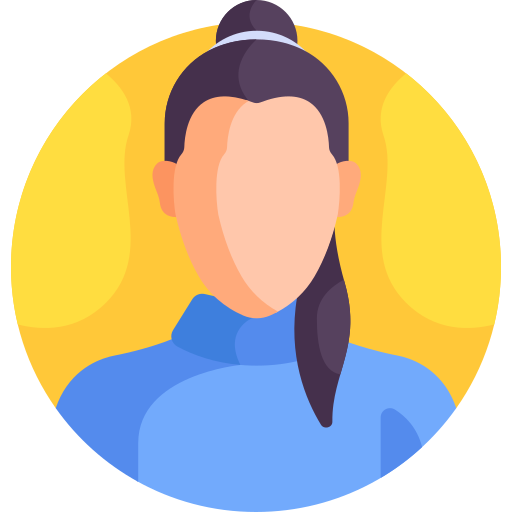
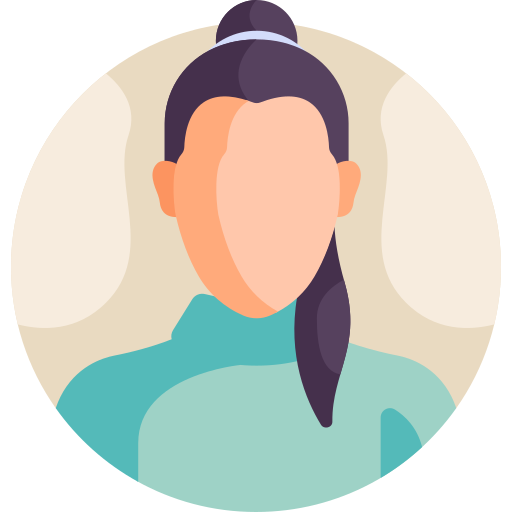
Style website

diff --git a/Web Development Bootcamp/CSS - My Site/css/styles.css b/Web Development Bootcamp/CSS - My Site/css/styles.css
@@ -10,7 +10,6 @@ h1 {
   font-size: 5.625rem;
   margin: 50px auto 0 auto;
   font-family: 'Sacramento', cursive;
-  line-height: 2;
 }
 h2{
   color: #66BFBF;
@@ -22,6 +21,15 @@ h3{
   color: #11999E;
   font-family: 'Montserrat', sans-serif;
 }
+hr{
+  border-style: none;
+  border-top-style: dotted;
+  border-width: 5px;
+  border-color: #EAF6F6;
+  margin: 100px auto;
+  width: 5%;
+
+}
 a{
   color: #11999E;
 }
@@ -30,20 +38,51 @@ a{
   background-color: #CDF0EA;
   position: relative;
   padding-top: 100px;
-
-
 }
 
 .middle-container {
+  background-color: #E9DAC1;
 }
-
-.icons{
-   width: 150px;
-}
-
 
 .bottom-container {
+  background-color: #CDF0EA;
 }
+
+.skill-row{
+  margin: 100px auto;
+  width: 50%;
+  text-align: left;
+  line-height: 2;
+}
+
+.profile{
+  margin: 100PX auto;
+  width: 50%;
+  line-height: 2;
+}
+
+.contact-me{
+  margin: 100px auto;
+  width: 50%;
+  line-height: 2;
+}
+
+.profile-pic{
+  margin-top: 50px;
+  width: 25%;
+}
+.multi-img{
+   width: 25%;
+   float: left;
+   margin-right: 30px;
+}
+
+.chip-img{
+  width:25%;
+  float: right;
+  margin-left: 30px;
+}
+
 
 .bottom-cloud {
   position: absolute;
@@ -55,4 +94,31 @@ a{
   position: absolute;
   top: 50px;
   right: 350px;
+}
+
+.btn {
+  background: #E9DAC1;
+  background-image: -webkit-linear-gradient(top, #54BAB9, #9ED2C6);
+  background-image: -moz-linear-gradient(top, #54BAB9,#9ED2C6);
+  background-image: -ms-linear-gradient(top, #54BAB9, #9ED2C6);
+  background-image: -o-linear-gradient(top, #54BAB9, #9ED2C6);
+  background-image: linear-gradient(to bottom, #54BAB9, #9ED2C6);
+  -webkit-border-radius: 8;
+  -moz-border-radius: 8;
+  border-radius: 8px;
+  font-family: Arial;
+  color: #1f65ab;
+  font-size: 20px;
+  padding: 10px 20px 10px 20px;
+  text-decoration: none;
+}
+
+.btn:hover {
+  background: #54BAB9;
+  background-image: -webkit-linear-gradient(top, #E9DAC1, #F7ECDE);
+  background-image: -moz-linear-gradient(top, #E9DAC1, #F7ECDE);
+  background-image: -ms-linear-gradient(top, #E9DAC1, #F7ECDE);
+  background-image: -o-linear-gradient(top, #E9DAC1, #F7ECDE);
+  background-image: linear-gradient(to bottom, #E9DAC1, #F7ECDE);
+  text-decoration: none;
 }

diff --git a/Web Development Bootcamp/CSS - My Site/index.html b/Web Development Bootcamp/CSS - My Site/index.html
@@ -20,7 +20,7 @@
 
       <div class="middle-container">
         <div class="profile">
-          <img class="icons" src="images/woman.png" alt="profile-pic">
+          <img class="profile-pic" src="images/woman.png" alt="profile-pic">
           <h2>Hi.</h2>
           <p>I'm from Veliko Tarnovo, Bulgaria. Former Casino Dealer. Full-time Web Development student. Part-time hotel owner.</p>
         </div>
@@ -28,17 +28,18 @@
         <div class="skills">
           <h2>Skills.</h2>
           <div class="skill-row">
-            <img class="icons" src="images/lean.png" alt="binary-code-img">
+            <img class="multi-img" src="images/lean.png" alt="binary-code-img">
             <h3>Multitasking.</h3>
             <p>I can study 12 hours a day, finish in the top 25 students of my class, while running a successfull hotel with 9/10 raiting on booking.com</p>
           </div>
           <div class="skill-row">
-            <img class="icons" src="images/casino-chip.png" alt="">
+            <img class="chip-img" src="images/casino-chip.png" alt="">
             <h3>Employee of the month.</h3>
-            <p>I can spin the 0 on Roulette when someone's betting on it and tipping when winning or deal myself 5 blackjacks in a row when they're not.</p>
+            <p>I can deal myself 5 blackjacks in a row or spin the 0 on Roulette if a player is betting on it but not tipping.</p>
           </div>
         </div>
         <hr>
+        
         <div class="contact-me">
           <h2>Get In Touch</h2>
           <h3>I'm open to work.</h3>
